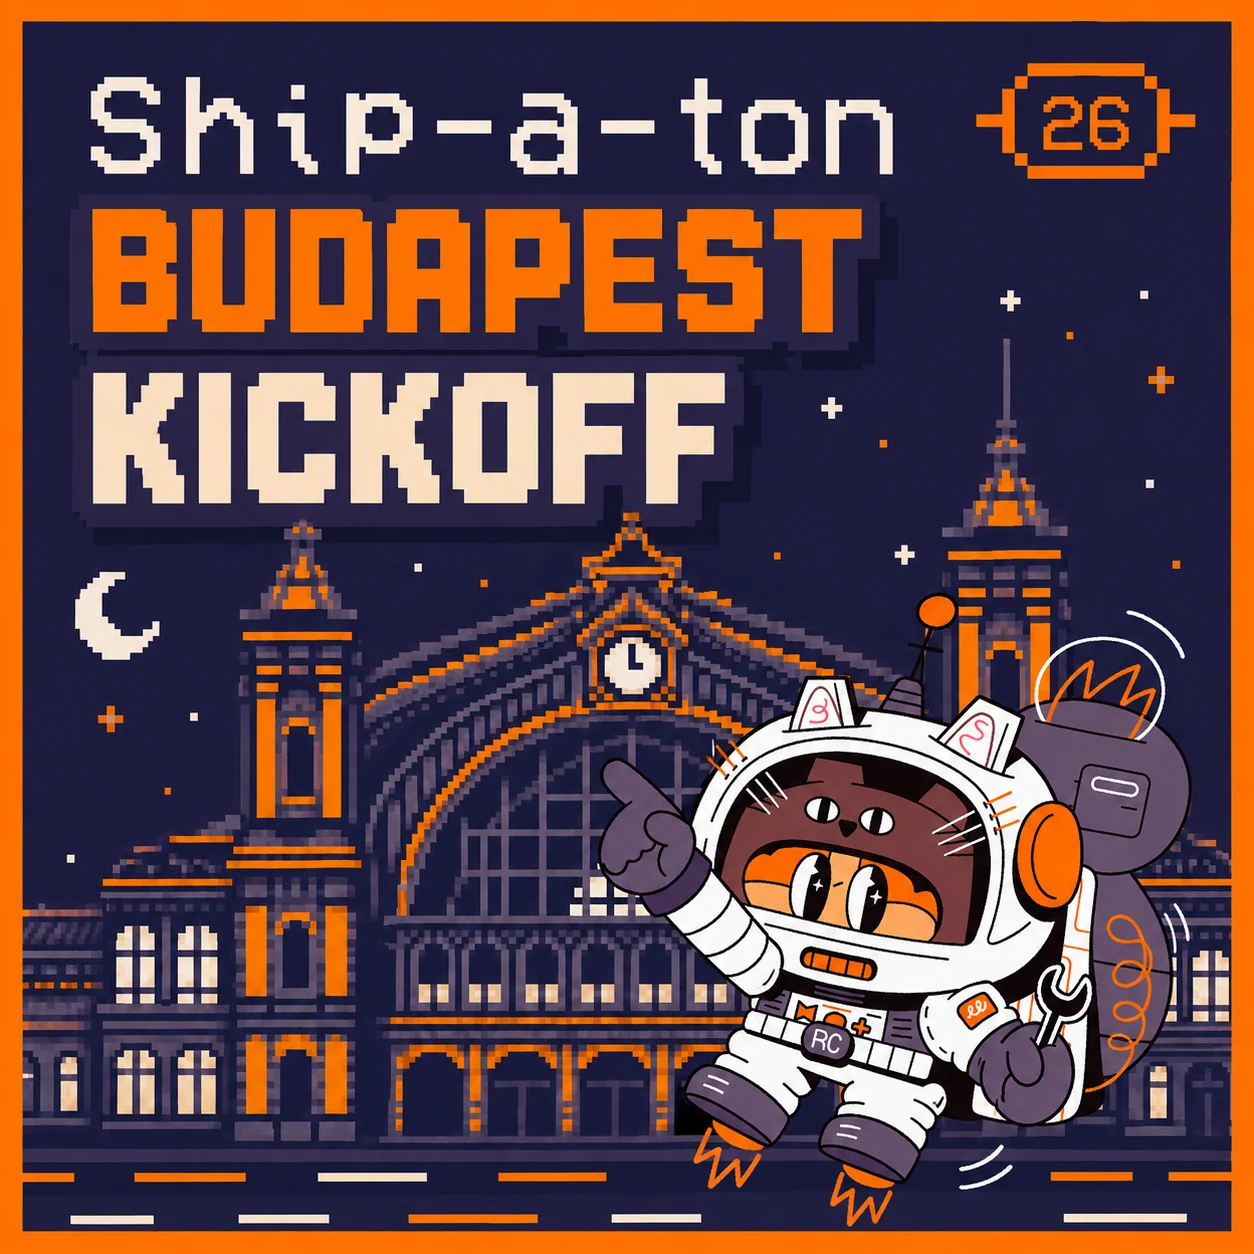
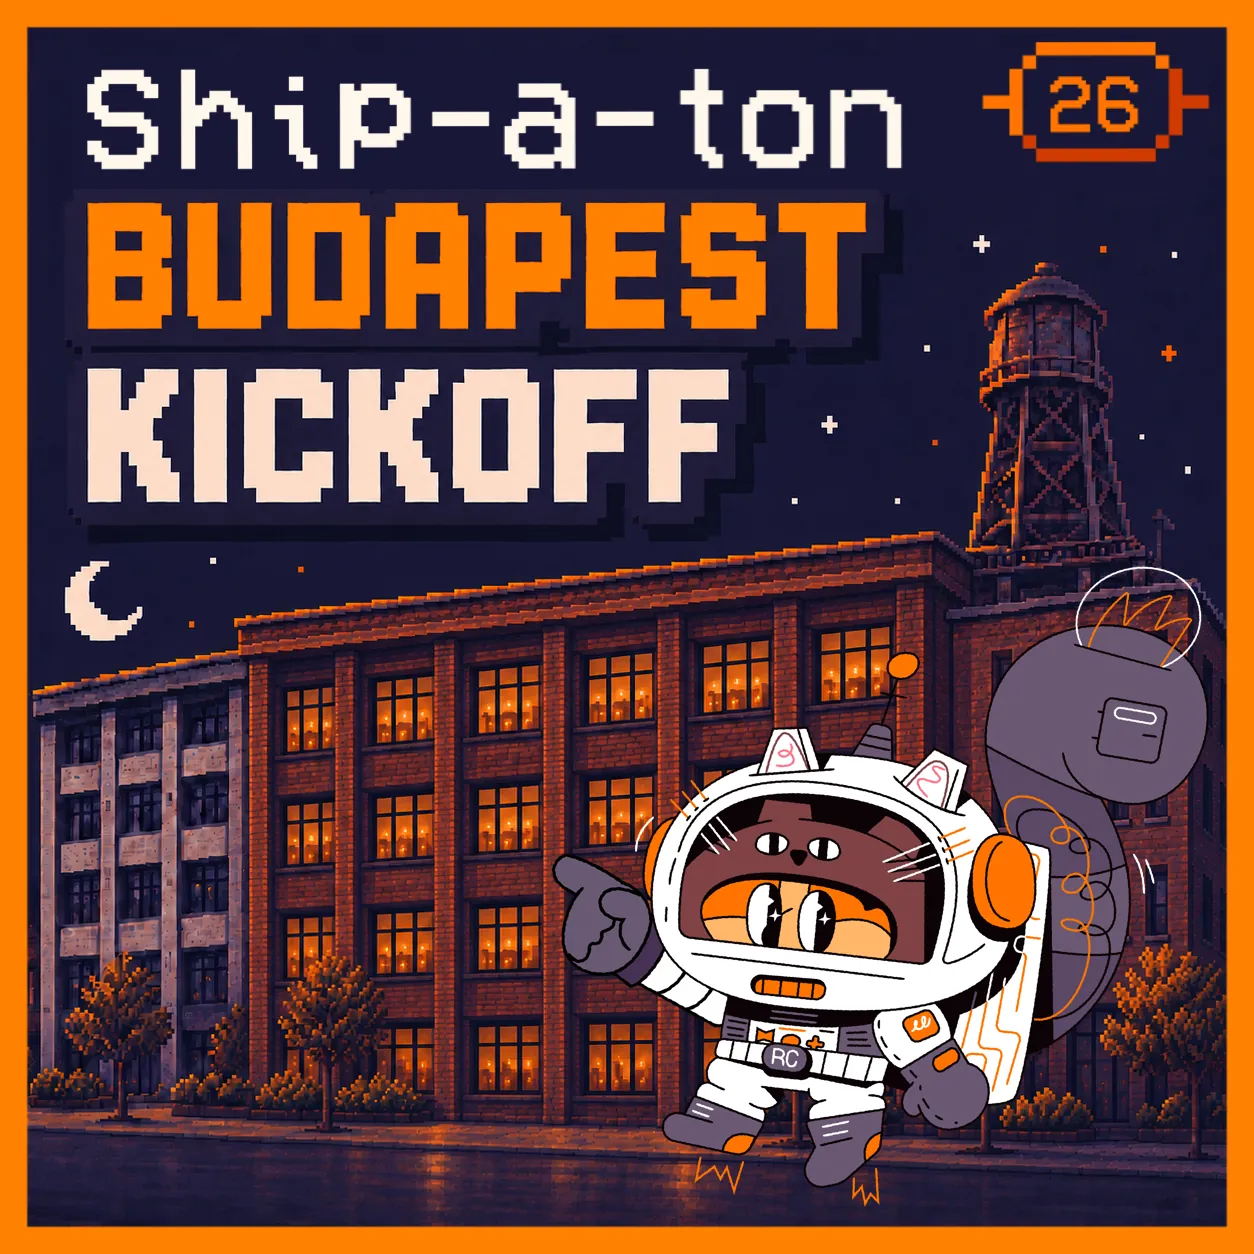
Update Project Kickoff thumbnail (#18)

diff --git a/tests/site.spec.ts b/tests/site.spec.ts
@@ -400,7 +400,9 @@ test("navigates from the event grid to MDX details and back", async ({ page }) =
   await expect(page.getByRole("navigation", { name: "On this page" }).getByRole("link", { name: "Lightning talks" })).toHaveAttribute("href", "#lightning-talks");
   await expect(page.locator(".event-document__body")).toContainText("Primary languages: English and Hungarian");
   await expect(page.locator(".event-document__body")).toContainText("Food and drinks will be provided at the venue.");
-  const thumbnail = page.locator(".event-document__header").getByRole("img", { name: /Ship-a-ton Budapest Kickoff 2026 poster/ });
+  const thumbnail = page.locator(".event-document__header").getByRole("img", {
+    name: "Ship-a-ton Budapest Kickoff 2026 poster with a rocket-cat astronaut in front of the Puzl CowOrKing building at night"
+  });
   await expect(thumbnail).toHaveAttribute("src", "/2026/events/project-kickoff-thumbnail.webp");
   await expect(thumbnail).toHaveAttribute("width", "1254");
   await expect(thumbnail).toHaveAttribute("height", "1254");
